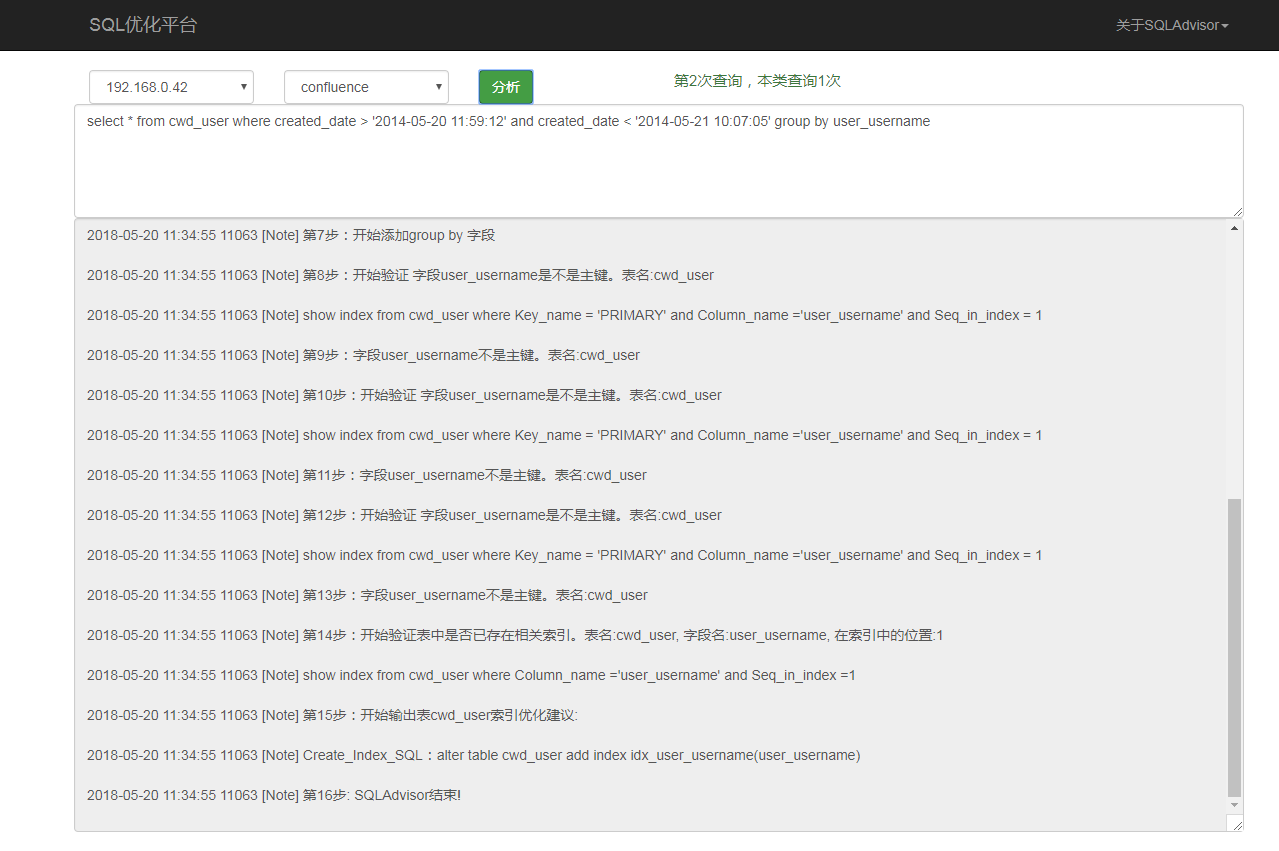
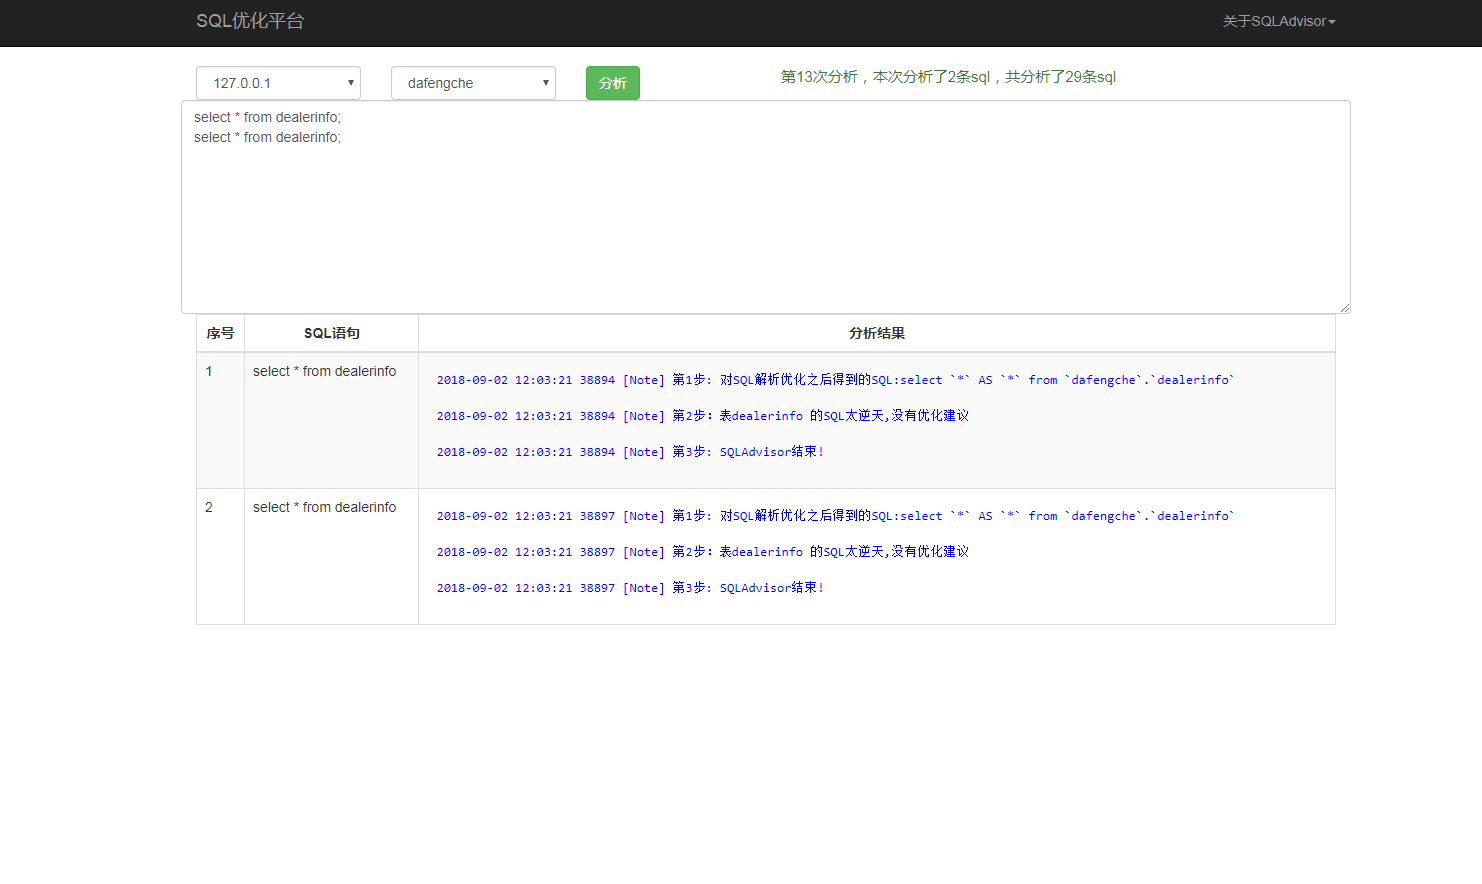
支持分析多条sql

diff --git a/templates/sqladvisor.html b/templates/sqladvisor.html
@@ -1,64 +1,73 @@
 {% extends "base.html" %}
 {% block body %}
 <div class="container">
-<form id="analysis" action="/" method="post">
-  <div class="row">
-      <div class="col-md-2">
-      <select class="form-control" id="dbhostlist" name="dbhost" required>
-          <option value='' selected>选择主机</option>
-          {% for dbhost in dbhostlist %}
-            <option value={{ dbhost }}>{{ dbhost }}</option>
-          {% endfor %}
-      </select>
+    <form id="analysis" action="/" method="post">
+      <div class="row">
+          <div class="col-md-2">
+          <select class="form-control" id="db_host_list" name="db_host" required>
+              <option value='' selected>选择主机</option>
+              {% for db_host in db_host_list %}
+                <option value={{ db_host }}>{{ db_host }}</option>
+              {% endfor %}
+          </select>
+          </div>
+          <div class="col-md-2">
+          <select class="form-control" id="db_name" name="db_name" required>
+              <option value=''>选择数据库</option>
+          </select>
+          </div>
+          <div class="col-md-2">
+            <button type="submit" name='analysis' class="btn btn-success">分析</button>
+          </div>
+          <div class="col-md-4">
+                <span id="number" style="font-size:15px"></span>
+          </div>
       </div>
-      <div class="col-md-2">
-      <select class="form-control" id="dbname" name="dbname" required>
-          <option value=''>选择数据库</option>
-      </select>
+      <div class="row">
+              <textarea id="textarea1" class="form-control" name="sql_content" rows="10"
+                        placeholder="请输入查询SQL，可以输入多条sql语句，每条sql以分号结尾" required></textarea>
       </div>
-      <div class="col-md-2">
-        <button type="submit" name='analysis' class="btn btn-success">分析</button>
-      </div>
-      <div class="col-md-4">
-            <span id="number" style="font-size:15px"></span>
-      </div>
-  </div>
-  <div class="row">
-          <textarea id="textarea1" class="form-control" name="sqlcontent" rows="5" placeholder="请输入查询SQL" required></textarea>
-  </div>
-</form>
-<div class="row">
-      <textarea id="textarea2" class="form-control" rows='30' name="result" readonly></textarea>
-    </div>
+    </form>
+
+    <table id="analysis_result" class="table table-striped table-bordered table-hover">
+        <thead>
+            <tr>
+                <th class="text-center"> 序号 </th>
+                <th class="text-center"> SQL语句 </th>
+                <th class="text-center"> 分析结果 </th>
+            </tr>
+        </thead>
+        <tbody>
+        </tbody>
+    </table>
 </div>
 {% endblock %}
-
 {% block script %}
 <script>
     $(document).ready(function() {
-        $('#dbhostlist').change(function() {
-            var dbhost = $('#dbhostlist option:selected').val();
-            if(dbhost==""){
-                $('#dbname').find('option').remove();
-                $('#dbname').append('<option value="">选择数据库</option>');
+        $('#db_host_list').change(function() {
+            var db_host = $('#db_host_list option:selected').val();
+            if(db_host==""){
+                $('#db_name').find('option').remove();
+                $('#db_name').append('<option value="">选择数据库</option>');
                 return false;
             }
             $.ajax({
-                url: "/display_db/",
+                url: "/show_db/",
                 type: 'get',
-                data: { 'dbhost': dbhost },
+                data: { 'db_host': db_host },
                 success: function(data)
                 {
-                    var dblist = data['result'];
-                    if(dblist == ""){
-                        $('#dbname').find('option').remove();
-                        $('#dbname').append('<option value="">连接数据库错误</option>');
+                    var db_list = data['result'];
+                    if(db_list == ""){
+                        $('#db_name').find('option').remove();
+                        $('#db_name').append('<option value="">连接数据库错误</option>');
                         return false;
                     }
-                    $('#dbname').find('option').remove();
-                    $('#dbname').append('<option value="">选择数据库</option>');
+                    $('#db_name').find('option').remove();
+                    $('#db_name').append('<option value="">选择数据库</option>');
                     for (var i=0;i<(data['result']).length;i++){
-                        $('#dbname').append('<option value="' + data['result'][i] +'">'+ data['result'][i] +'</option>');
+                        $('#db_name').append('<option value="' + data['result'][i] +'">'+ data['result'][i] +'</option>');
                     }
                 }
             });
@@ -66,23 +75,22 @@
 
         $('#analysis').submit(function() {
             $.post("/",$(this).serialize(),function(data) {
-                $("#textarea2").val(data['result']);
-                $("#number").text(data['totalQueryCounts']);
-                var totalQueryCounts=data['totalQueryCounts'];
+                var analysis_result =  data['result'];
 
-                //获取类别的查询次数,由于此key是一个md5值，每个key都不一样，
-                //所以需要删除字典中的其它项，只保留此项，然后获取value
+                $('table tbody').html('');
+                var line = 1;
+                $.each(analysis_result,function (i,item) {
+                    $('table tbody').append('<tr><td>' + line + '</td><td>' + item[0] + '</td><td><pre>' + item[1] + '</pre></td></tr>')
+                    ++line;
+                });
+                $('pre').css({border: "0px", color: "blue", background: "none"});
 
-                delete data['result'];
-                delete data['totalQueryCounts'];
+                var query_counts=data['query_counts'];
+                var query_sql_counts=data['query_sql_counts'];
+                var current_query_sql_counts=data['current_query_sql_counts'];
+                $("#number").text(query_counts);
 
-                var values = [];
-                for (var key in data) {
-                        values.push(data[key]);
-                }
-                var categoryQueryCounts = values[0];
-
-                $("#number").text('第'+ totalQueryCounts + '次查询，本类查询' + categoryQueryCounts + '次');
+                $("#number").text('第'+ query_counts + '次分析，本次分析了' + current_query_sql_counts + '条sql，共分析了' + query_sql_counts + '条sql');
                 $("#number").attr("class","text-success");
             });
             return false;

diff --git a/app/web/sqladvisor.py b/app/web/sqladvisor.py
@@ -13,7 +13,6 @@ from flask import render_template, request, jsonify
 
 from config import *
 from . import web
-from hashlib import md5
 import commands
 import redis
 from mylog import getLogger
@@ -24,9 +23,10 @@ LOG = getLogger('root')
 @web.route('/', methods=['GET', 'POST'])
 def analysis_sql():
     if request.is_xhr and request.method == 'POST':
-        dbhost = request.form.get('dbhost')
-        dbname = request.form.get('dbname')
-        sqlcontent = request.form.get('sqlcontent').strip().replace('\'', '\"')
+        db_host = request.form.get('db_host')
+        db_name = request.form.get('db_name')
+        sql_content = request.form.get('sql_content').strip().replace('\'', '\"')
+        sql_content = [ i.strip('\r\n') for i in sql_content.split(';') if i ]
 
         try:
             redis_conn = redis.Redis(host=REDIS_HOST, port=REDIS_PORT, db=0)
@@ -34,58 +34,56 @@ def analysis_sql():
         except redis.exceptions.ConnectionError, e:
             LOG.warning("连接redis错误: %s" % e)
 
-            sqladvisor_result = exec_sql(dbhost=dbhost, dbname=dbname, sqlcontent=sqlcontent)
-            analysis_result = {'totalQueryCounts': 'N', 'sqladvisor_xxx': 'N',
+            sqladvisor_result = exec_sql(db_host=db_host, db_name=db_name, sql_content=sql_content)
+            analysis_result = {'query_counts': 'N',
+                               'query_sql_counts': 'N',
+                               'current_query_sql_counts': 'N',
                                'result': sqladvisor_result}
 
             return jsonify(analysis_result)
 
-        categoryQueryKey = 'sqladvisor_categoryQueryCounts' + '_' + md5(dbname + '_' + sqlcontent).hexdigest()
-
-        '''
-        记录总的查询次数
-        '''
-        totalQueryCounts = redis_conn.incr('sqladvisor_totalQueryCounts')
-
-        '''
-        记录每个类别的查询次数
-        '''
-        categoryQueryCounts = redis_conn.incr(categoryQueryKey)
-
+        query_counts = redis_conn.incr('sqladvisor_query_counts')
+        query_sql_counts = redis_conn.incrby('sqladvisor_query_sql_counts', len(sql_content))
         analysis_result = {}
-        sqladvisor_result = exec_sql(dbhost=dbhost, dbname=dbname, sqlcontent=sqlcontent)
+        sqladvisor_result = exec_sql(db_host=db_host, db_name=db_name, sql_content=sql_content)
         analysis_result['result'] = sqladvisor_result
-        analysis_result[categoryQueryKey] = categoryQueryCounts
-        analysis_result['totalQueryCounts'] = totalQueryCounts
+        analysis_result['query_counts'] = query_counts
+        analysis_result['query_sql_counts'] = query_sql_counts
+        analysis_result['current_query_sql_counts'] = len(sql_content)
+
         return jsonify(analysis_result)
 
-    return render_template('sqladvisor.html', dblist=[], dbhostlist=DB_HOSTLIST)
+    return render_template('sqladvisor.html', db_list=[], db_host_list=DB_HOSTLIST)
 
 
-@web.route('/display_db/', methods=['GET', 'POST'])
-def display_db():
-    dbhost = request.args.get('dbhost')
+@web.route('/show_db/', methods=['GET', 'POST'])
+def show_db():
+    db_host = request.args.get('db_host', '')
 
-    if not dbhost:
-        dbhostlist = {'result': ''}
-        return jsonify(dbhostlist)
+    if not db_host:
+        db_host_list = {'result': ''}
+        return jsonify(db_host_list)
 
     status, output = commands.getstatusoutput("\
             mysql -u%s -p%s -P%s -h%s -e'show databases' \
-            | grep -Ev 'mysql|schema|Database'" % (DB_USER, DB_PWD, DB_PORT, dbhost))
+            | grep -Ev 'mysql|schema|Database'" % (DB_USER, DB_PWD, DB_PORT, db_host))
     if status == 0:
-        dblist = output.split('\n')
-        dblist = {'result': dblist}
+        db_list = output.split('\n')
+        db_list = {'result': db_list}
     else:
         LOG.error('连接mysql错误: %s' % output)
-        dblist = {'result': ''}
-    return jsonify(dblist)
+        db_list = {'result': ''}
+    return jsonify(db_list)
 
 
-def exec_sql(dbhost, dbname, sqlcontent):
+def exec_sql(db_host="", db_name="", sql_content=""):
     """
     执行sql分析
     """
-    status, output = commands.getstatusoutput('sqladvisor -h %s -u %s -p %s -P %s -d %s -q \' %s \' -v 1'
-                                              % (dbhost, DB_USER, DB_PWD, DB_PORT, dbname, sqlcontent))
-    return output
+    sql_result = []
+    for sql in sql_content:
+        status, output = commands.getstatusoutput('sqladvisor -h %s -u %s -p %s -P %s -d %s -q \' %s \' -v 1'
+                                                  % (db_host, DB_USER, DB_PWD, DB_PORT, db_name, sql))
+        sql_result.append(output)
+    sql_result = zip(sql_content, sql_result)
+    return sql_result
